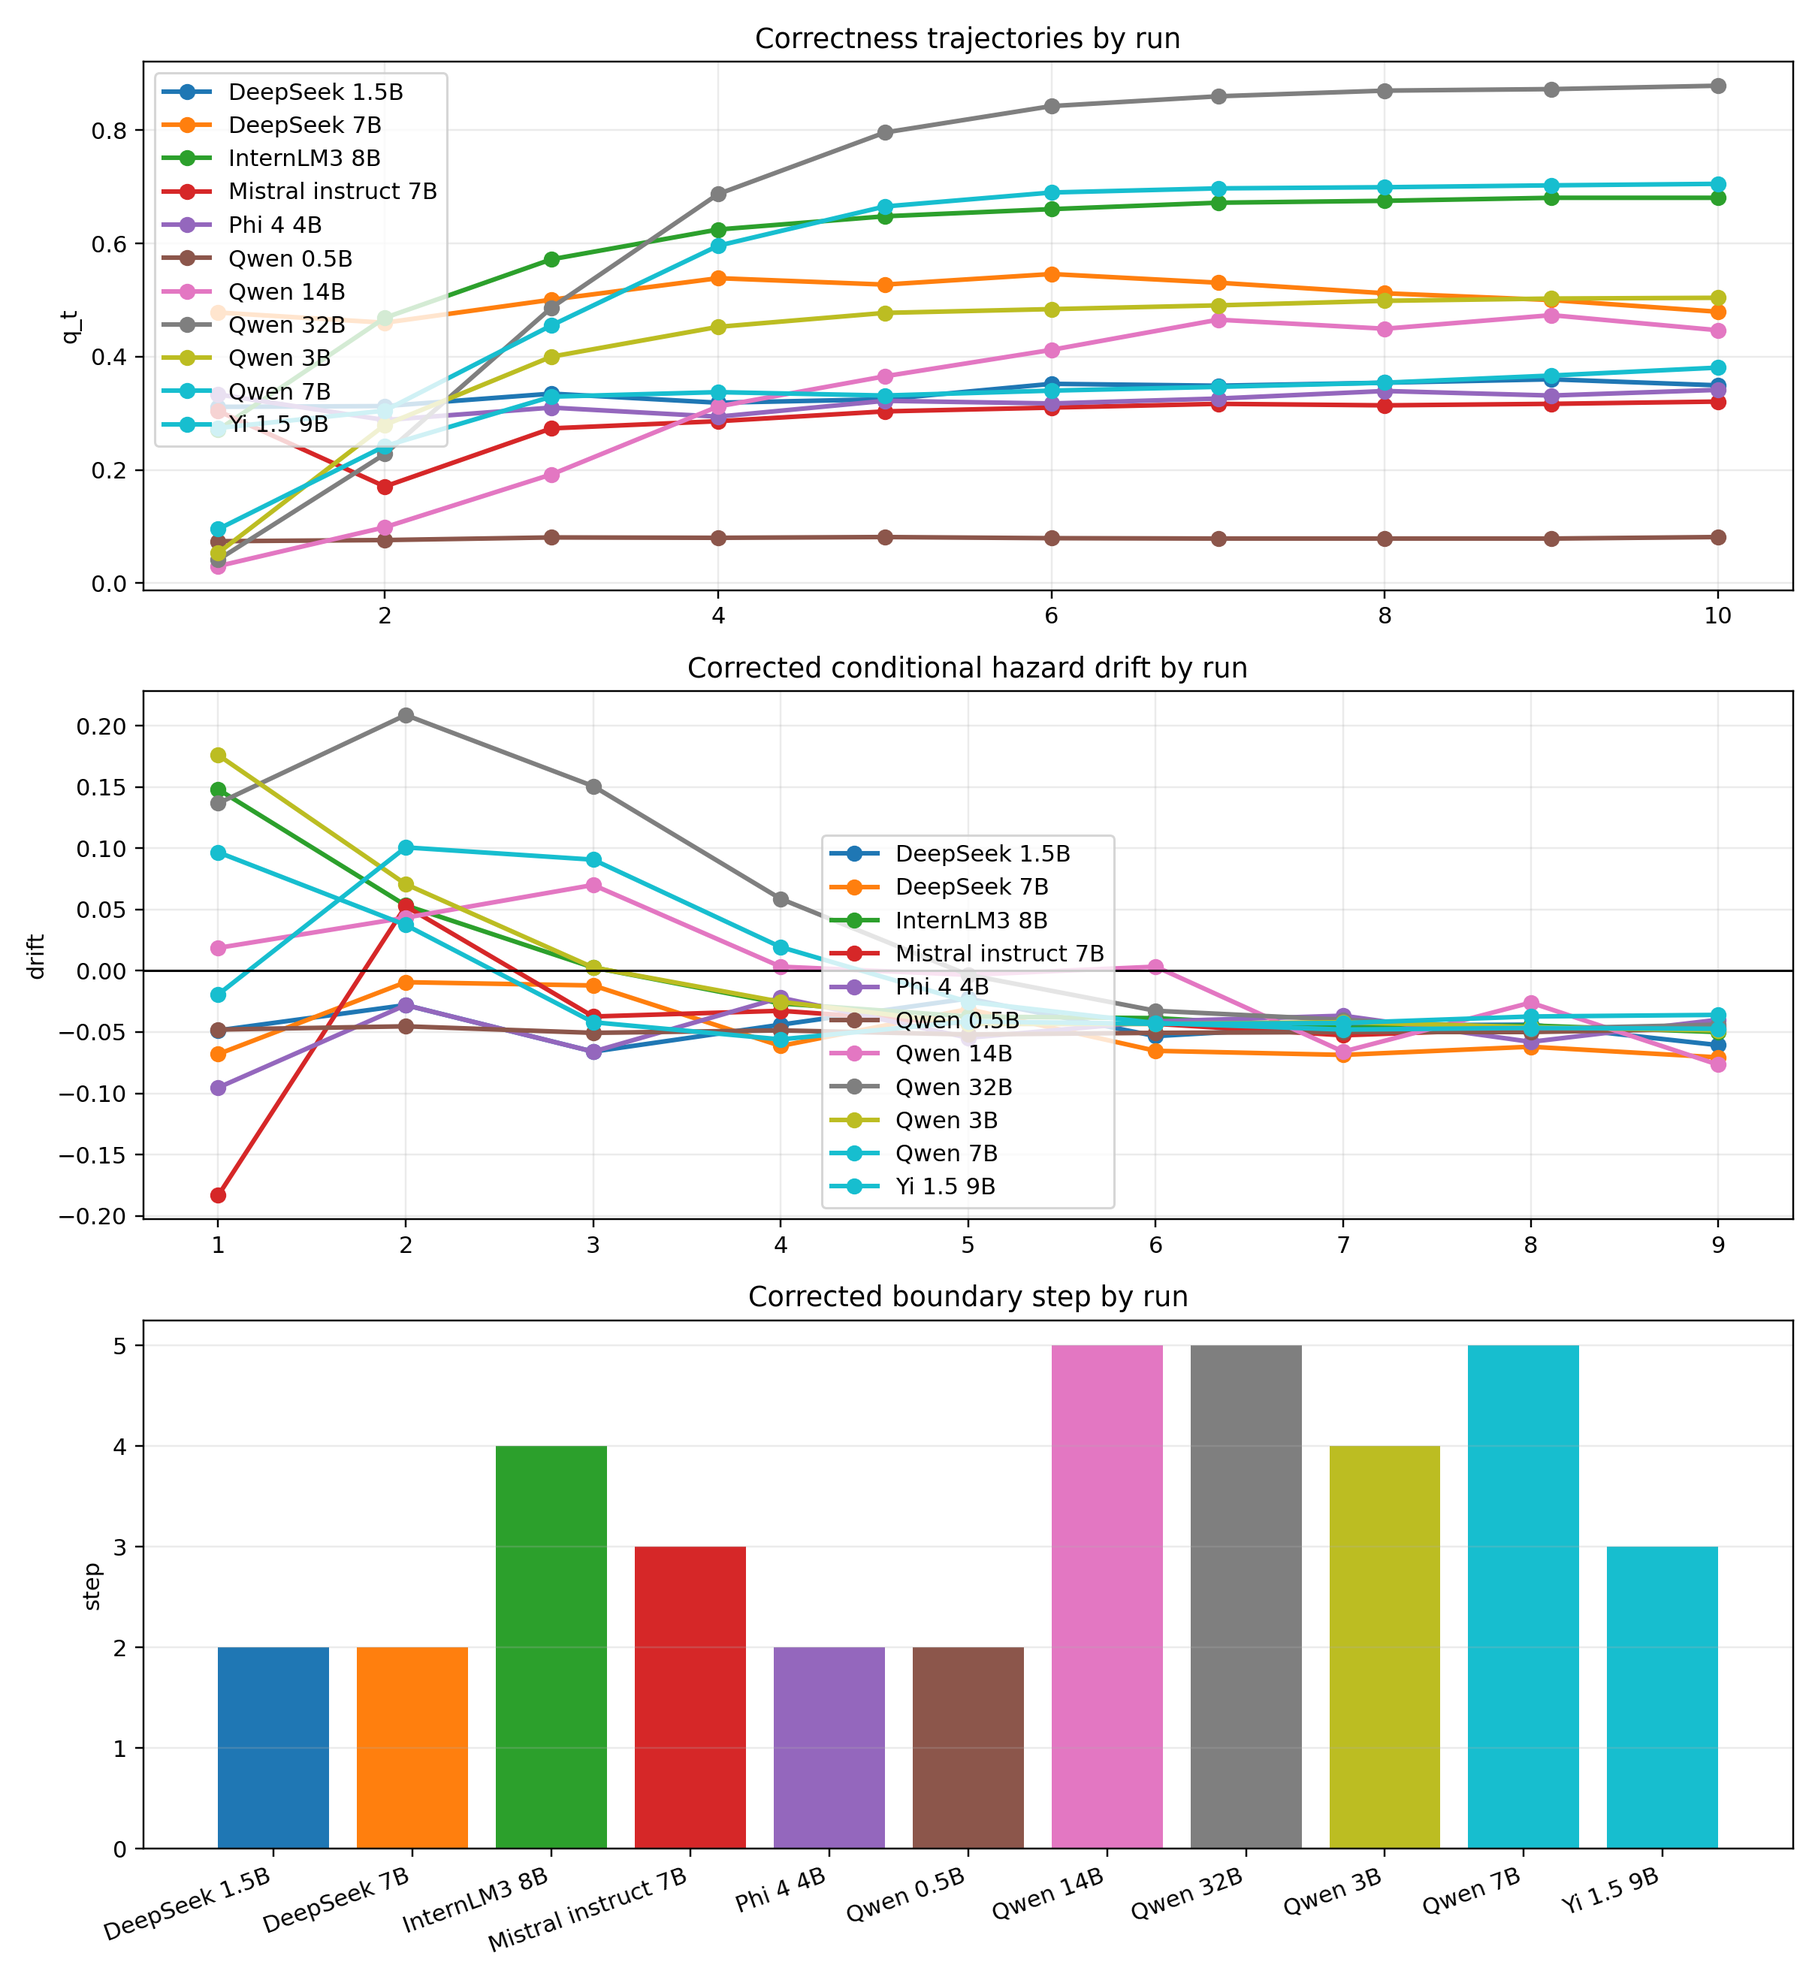
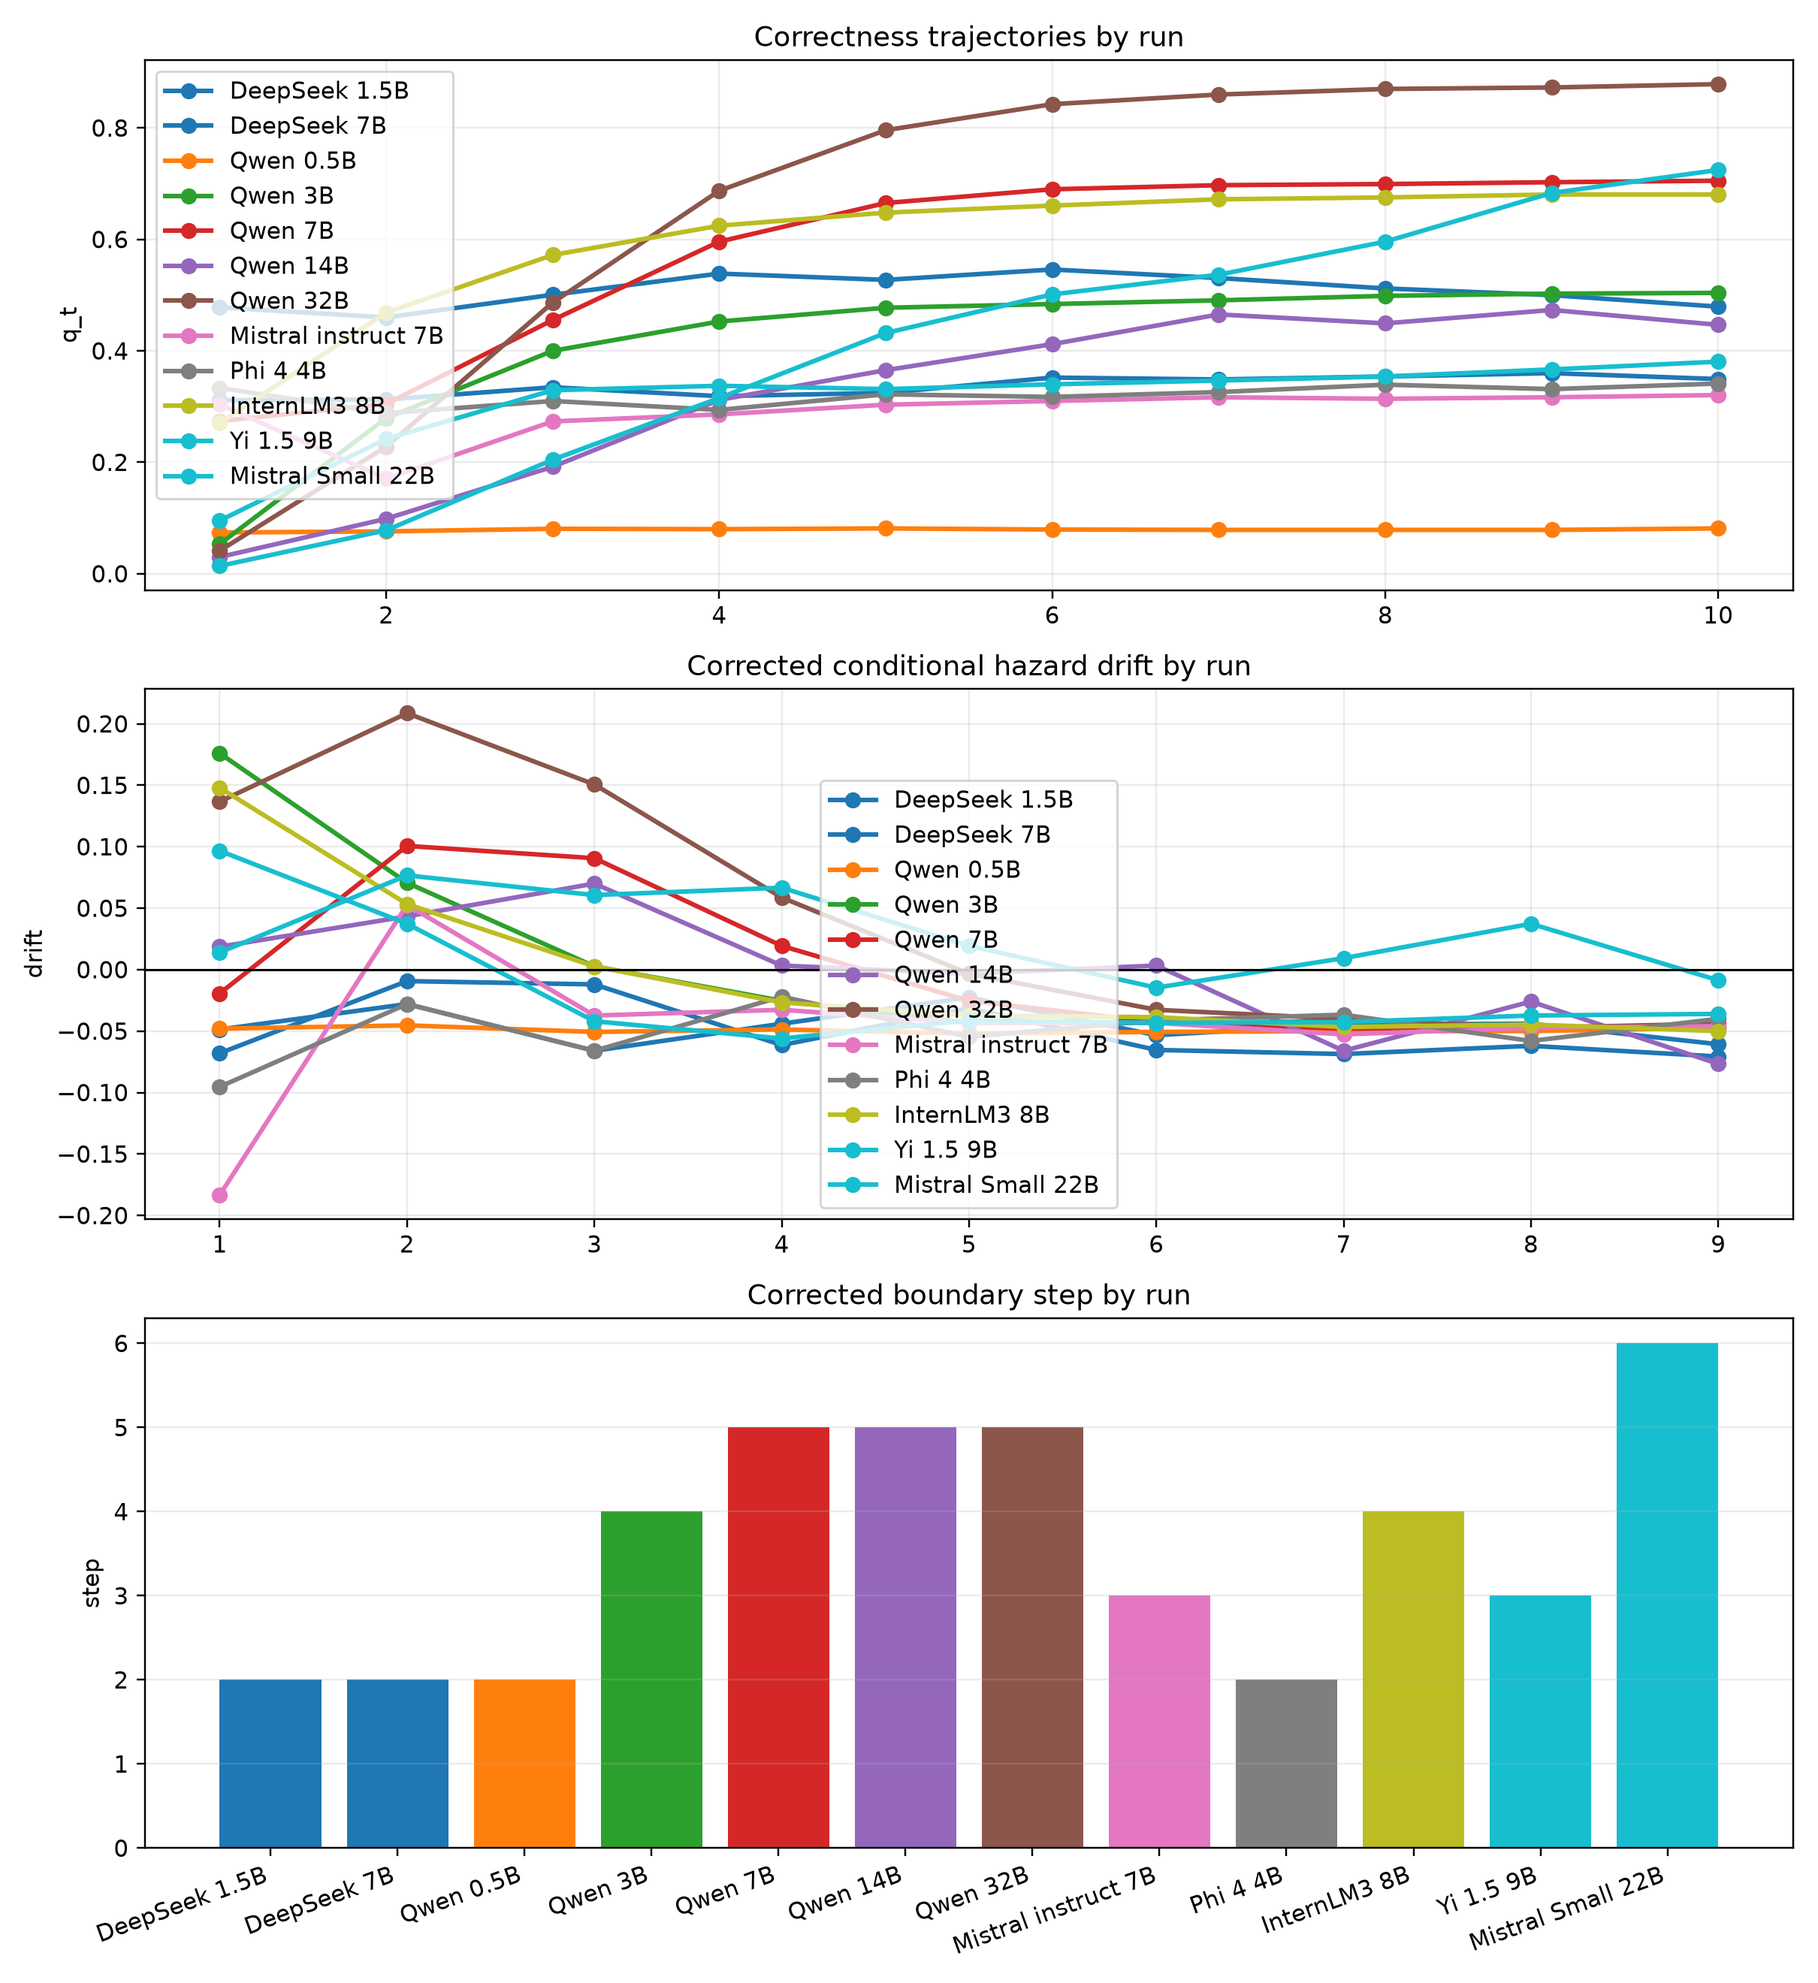
matrix aggregate: gsm8k

diff --git a/research/outputs/experiment_matrix/_aggregate/gsm8k/CROSS_FAMILY_REPORT.md b/research/outputs/experiment_matrix/_aggregate/gsm8k/CROSS_FAMILY_REPORT.md
@@ -1,39 +1,41 @@
 # Cross-Family Report
 
 ## Executive Summary
-A clearly late corrected boundary replicates in 3 capable run(s) across 1 family/families: Qwen 14B (step 5); Qwen 32B (step 5); Qwen 7B (step 5). An additional 4 run(s) across 4 family/families (InternLM3, Mistral instruct, Qwen2.5 instruct, Yi 1.5) add weaker late-boundary support: InternLM3 8B (step 4); Mistral instruct 7B (step 3); Qwen 3B (step 4); Yi 1.5 9B (step 3). The clearly-late evidence is concentrated in the Qwen2.5 instruct family, with weaker corroboration from 3 other family/families; cross-family support is materially stronger than a single-witness story, though a clearly-late non-Qwen2.5 instruct witness is still pending.
+A clearly late corrected boundary replicates in 4 capable run(s) across 2 family/families: Qwen 7B (step 5); Qwen 14B (step 5); Qwen 32B (step 5); Mistral Small 22B (step 6). An additional 4 run(s) across 4 family/families (InternLM3, Mistral instruct, Qwen2.5 instruct, Yi 1.5) add weaker late-boundary support: Qwen 3B (step 4); Mistral instruct 7B (step 3); InternLM3 8B (step 4); Yi 1.5 9B (step 3). Cross-family support for a late overthinking boundary is now strong.
 
-Task IDs align across all 11 runs under the shared GSM8K train split and shuffle seed 17 protocol.
+Task IDs align across all 12 runs under the shared GSM8K train split and shuffle seed 17 protocol.
 
 ## Run Summary
 | Run | Family | Params | Backend | Quant | Step-1 acc | Peak acc | Peak step | Corrected boundary | Repair | Corruption | Hazard gap | E-process gap | Never-stop gap | Probe Brier | Probe AUC | Assessment |
 | --- | --- | --- | --- | --- | --- | --- | --- | --- | --- | --- | --- | --- | --- | --- | --- | --- |
 | DeepSeek 1.5B | DeepSeek-R1 distill | 1.5B | transformers+torch(cuda) | none | 0.3113 | 0.3600 | 9 | 2 | 0.2231 | 0.4307 | 0.3870 | 0.4604 | 0.7338 | 0.2144 | 0.7017 | No late-boundary replication |
 | DeepSeek 7B | DeepSeek-R1 distill | 7B | transformers+torch(cuda) | none | 0.4780 | 0.5460 | 6 | 2 | 0.3636 | 0.3499 | 0.2815 | 0.6344 | 0.7771 | 0.1976 | 0.7535 | No late-boundary replication |
-| InternLM3 8B | InternLM3 | 8B | transformers+torch(cuda) | none | 0.2707 | 0.6807 | 9 | 4 | 0.1073 | 0.0243 | 0.1569 | 0.1725 | 0.4092 | 0.2170 | 0.6942 | Weakened late-boundary support |
-| Mistral instruct 7B | Mistral instruct | 7B | transformers+torch(cuda) | none | 0.3040 | 0.3207 | 10 | 3 | 0.0526 | 0.1339 | 0.1440 | 0.1550 | 0.4470 | 0.2316 | 0.6504 | Weakened late-boundary support |
-| Phi 4 4B | Phi 4 | 4B | transformers+torch(cuda) | none | 0.3333 | 0.3413 | 10 | 2 | 0.1589 | 0.3427 | 0.2935 | 0.3407 | 0.6594 | 0.2314 | 0.6521 | No late-boundary replication |
 | Qwen 0.5B | Qwen2.5 instruct | 0.5B | transformers+torch(cuda) | none | 0.0740 | 0.0813 | 5 | 2 | 0.0045 | 0.0404 | 0.0493 | 0.0121 | 0.4067 | 0.2413 | 0.5787 | No late-boundary replication |
-| Qwen 14B | Qwen2.5 instruct | 14B | transformers+torch(cuda) | none | 0.0300 | 0.4733 | 9 | 5 | 0.1427 | 0.2577 | 0.3535 | 0.3990 | 0.5676 | 0.1026 | 0.9122 | Late-boundary replication |
-| Qwen 32B | Qwen2.5 instruct | 32B | transformers+torch(cuda) | none | 0.0413 | 0.8787 | 10 | 5 | 0.2188 | 0.0611 | 0.1835 | 0.1889 | 0.3529 | 0.1500 | 0.8346 | Late-boundary replication |
 | Qwen 3B | Qwen2.5 instruct | 3B | transformers+torch(cuda) | none | 0.0533 | 0.5040 | 10 | 4 | 0.0907 | 0.0830 | 0.2380 | 0.2369 | 0.4609 | 0.2166 | 0.7087 | Weakened late-boundary support |
 | Qwen 7B | Qwen2.5 instruct | 7B | transformers+torch(cuda) | none | 0.2740 | 0.7053 | 10 | 5 | 0.1214 | 0.0634 | 0.1672 | 0.1978 | 0.3878 | 0.1960 | 0.7525 | Late-boundary replication |
+| Qwen 14B | Qwen2.5 instruct | 14B | transformers+torch(cuda) | none | 0.0300 | 0.4733 | 9 | 5 | 0.1427 | 0.2577 | 0.3535 | 0.3990 | 0.5676 | 0.1026 | 0.9122 | Late-boundary replication |
+| Qwen 32B | Qwen2.5 instruct | 32B | transformers+torch(cuda) | none | 0.0413 | 0.8787 | 10 | 5 | 0.2188 | 0.0611 | 0.1835 | 0.1889 | 0.3529 | 0.1500 | 0.8346 | Late-boundary replication |
+| Mistral instruct 7B | Mistral instruct | 7B | transformers+torch(cuda) | none | 0.3040 | 0.3207 | 10 | 3 | 0.0526 | 0.1339 | 0.1440 | 0.1550 | 0.4470 | 0.2316 | 0.6504 | Weakened late-boundary support |
+| Phi 4 4B | Phi 4 | 4B | transformers+torch(cuda) | none | 0.3333 | 0.3413 | 10 | 2 | 0.1589 | 0.3427 | 0.2935 | 0.3407 | 0.6594 | 0.2314 | 0.6521 | No late-boundary replication |
+| InternLM3 8B | InternLM3 | 8B | transformers+torch(cuda) | none | 0.2707 | 0.6807 | 9 | 4 | 0.1073 | 0.0243 | 0.1569 | 0.1725 | 0.4092 | 0.2170 | 0.6942 | Weakened late-boundary support |
 | Yi 1.5 9B | Yi 1.5 | 9B | transformers+torch(cuda) | none | 0.0953 | 0.3807 | 10 | 3 | 0.1001 | 0.1550 | 0.2077 | 0.2341 | 0.4968 | 0.2215 | 0.6923 | Weakened late-boundary support |
+| Mistral Small 22B | Mistral Small | 22B | transformers+torch(cuda) | none | 0.0140 | 0.7247 | 10 | 6 | 0.2025 | 0.2266 | 0.3638 | 0.3251 | 0.3338 | 0.1713 | 0.8246 | Late-boundary replication |
 
 ## Drift Audit
 | Run | Empirical boundary | Corrected boundary | Fitted boundary | Legacy pooled proxy | Mismatch |
 | --- | --- | --- | --- | --- | --- |
 | DeepSeek 1.5B | 2 | 2 | 2 | 2 | no |
 | DeepSeek 7B | 2 | 2 | 4 | 2 | no |
-| InternLM3 8B | 4 | 4 | 4 | 4 | no |
-| Mistral instruct 7B | 3 | 3 | 4 | 3 | no |
-| Phi 4 4B | 2 | 2 | 3 | 2 | no |
 | Qwen 0.5B | 2 | 2 | 2 | 2 | no |
-| Qwen 14B | 5 | 5 | 6 | 5 | no |
-| Qwen 32B | 5 | 5 | 5 | 5 | no |
 | Qwen 3B | 4 | 4 | 4 | 4 | no |
 | Qwen 7B | 5 | 5 | 5 | 5 | no |
+| Qwen 14B | 5 | 5 | 6 | 5 | no |
+| Qwen 32B | 5 | 5 | 5 | 5 | no |
+| Mistral instruct 7B | 3 | 3 | 4 | 3 | no |
+| Phi 4 4B | 2 | 2 | 3 | 2 | no |
+| InternLM3 8B | 4 | 4 | 4 | 4 | no |
 | Yi 1.5 9B | 3 | 3 | 4 | 3 | no |
+| Mistral Small 22B | 6 | 6 | 5 | 6 | no |
 
 ## Detector Rankings
 | Run | Detector | Rank | Mean oracle gap | False-late rate |
@@ -44,48 +46,52 @@ Task IDs align across all 11 runs under the shared GSM8K train split and shuffle
 | DeepSeek 7B | verifier_first_correct | 1 | -0.0093 | 0.091 |
 | DeepSeek 7B | oracle | 2 | 0.0000 | 0.000 |
 | DeepSeek 7B | hazard_drift | 3 | 0.2815 | 0.477 |
-| InternLM3 8B | oracle | 1 | 0.0000 | 0.000 |
-| InternLM3 8B | verifier_first_correct | 2 | 0.0834 | 0.273 |
-| InternLM3 8B | answer_stability | 3 | 0.1478 | 0.544 |
-| Mistral instruct 7B | oracle | 1 | 0.0000 | 0.000 |
-| Mistral instruct 7B | first_answer | 2 | 0.0137 | 0.000 |
-| Mistral instruct 7B | verifier_first_correct | 3 | 0.1423 | 0.558 |
-| Phi 4 4B | oracle | 1 | 0.0000 | 0.000 |
-| Phi 4 4B | verifier_first_correct | 2 | 0.0046 | 0.279 |
-| Phi 4 4B | first_answer | 3 | 0.2174 | 0.000 |
 | Qwen 0.5B | first_answer | 1 | -0.0359 | 0.000 |
 | Qwen 0.5B | oracle | 2 | 0.0000 | 0.000 |
 | Qwen 0.5B | e_process | 3 | 0.0121 | 0.000 |
-| Qwen 14B | oracle | 1 | 0.0000 | 0.000 |
-| Qwen 14B | verifier_first_correct | 2 | 0.0956 | 0.277 |
-| Qwen 14B | hazard_drift | 3 | 0.3535 | 0.438 |
-| Qwen 32B | oracle | 1 | 0.0000 | 0.000 |
-| Qwen 32B | verifier_first_correct | 2 | 0.0376 | 0.102 |
-| Qwen 32B | hazard_drift | 3 | 0.1835 | 0.783 |
 | Qwen 3B | oracle | 1 | 0.0000 | 0.000 |
 | Qwen 3B | verifier_first_correct | 2 | 0.1456 | 0.395 |
 | Qwen 3B | answer_stability | 3 | 0.2240 | 0.769 |
 | Qwen 7B | oracle | 1 | 0.0000 | 0.000 |
 | Qwen 7B | verifier_first_correct | 2 | 0.0508 | 0.239 |
 | Qwen 7B | answer_stability | 3 | 0.1543 | 0.892 |
+| Qwen 14B | oracle | 1 | 0.0000 | 0.000 |
+| Qwen 14B | verifier_first_correct | 2 | 0.0956 | 0.277 |
+| Qwen 14B | hazard_drift | 3 | 0.3535 | 0.438 |
+| Qwen 32B | oracle | 1 | 0.0000 | 0.000 |
+| Qwen 32B | verifier_first_correct | 2 | 0.0376 | 0.102 |
+| Qwen 32B | hazard_drift | 3 | 0.1835 | 0.783 |
+| Mistral instruct 7B | oracle | 1 | 0.0000 | 0.000 |
+| Mistral instruct 7B | first_answer | 2 | 0.0137 | 0.000 |
+| Mistral instruct 7B | verifier_first_correct | 3 | 0.1423 | 0.558 |
+| Phi 4 4B | oracle | 1 | 0.0000 | 0.000 |
+| Phi 4 4B | verifier_first_correct | 2 | 0.0046 | 0.279 |
+| Phi 4 4B | first_answer | 3 | 0.2174 | 0.000 |
+| InternLM3 8B | oracle | 1 | 0.0000 | 0.000 |
+| InternLM3 8B | verifier_first_correct | 2 | 0.0834 | 0.273 |
+| InternLM3 8B | answer_stability | 3 | 0.1478 | 0.544 |
 | Yi 1.5 9B | oracle | 1 | 0.0000 | 0.000 |
 | Yi 1.5 9B | verifier_first_correct | 2 | 0.1763 | 0.483 |
 | Yi 1.5 9B | answer_stability | 3 | 0.2045 | 0.753 |
+| Mistral Small 22B | oracle | 1 | 0.0000 | 0.000 |
+| Mistral Small 22B | verifier_first_correct | 2 | 0.0907 | 0.233 |
+| Mistral Small 22B | e_process | 3 | 0.3251 | 0.945 |
 
 ## Signal Comparison
 | Run | Strongest correctness signal | Strongest corruption signal |
 | --- | --- | --- |
 | DeepSeek 1.5B | answer revision flag (answer_changed, coeff=-0.720) | entropy volatility (entropy_std, coeff=0.363) |
 | DeepSeek 7B | answer revision flag (answer_changed, coeff=-0.925) | answer revision flag (answer_changed, coeff=0.240) |
-| InternLM3 8B | hidden-state L2 drift (hidden_l2_shift, coeff=0.395) | hidden-state L2 drift (hidden_l2_shift, coeff=1.309) |
-| Mistral instruct 7B | answer revision flag (answer_changed, coeff=-0.554) | hidden-state L2 drift (hidden_l2_shift, coeff=0.908) |
-| Phi 4 4B | answer revision flag (answer_changed, coeff=-0.565) | answer revision flag (answer_changed, coeff=0.355) |
 | Qwen 0.5B | token entropy (entropy_mean, coeff=-0.368) | verbosity-confidence proxy (verbose_confidence_proxy, coeff=0.625) |
-| Qwen 14B | hidden-state L2 drift (hidden_l2_shift, coeff=1.755) | answer revision flag (answer_changed, coeff=0.942) |
-| Qwen 32B | hidden-state L2 drift (hidden_l2_shift, coeff=1.152) | hidden-state L2 drift (hidden_l2_shift, coeff=1.537) |
 | Qwen 3B | self-reported confidence (confidence, coeff=0.717) | answer revision flag (answer_changed, coeff=0.443) |
 | Qwen 7B | self-reported confidence (confidence, coeff=0.740) | token entropy (entropy_mean, coeff=1.431) |
+| Qwen 14B | hidden-state L2 drift (hidden_l2_shift, coeff=1.755) | answer revision flag (answer_changed, coeff=0.942) |
+| Qwen 32B | hidden-state L2 drift (hidden_l2_shift, coeff=1.152) | hidden-state L2 drift (hidden_l2_shift, coeff=1.537) |
+| Mistral instruct 7B | answer revision flag (answer_changed, coeff=-0.554) | hidden-state L2 drift (hidden_l2_shift, coeff=0.908) |
+| Phi 4 4B | answer revision flag (answer_changed, coeff=-0.565) | answer revision flag (answer_changed, coeff=0.355) |
+| InternLM3 8B | hidden-state L2 drift (hidden_l2_shift, coeff=0.395) | hidden-state L2 drift (hidden_l2_shift, coeff=1.309) |
 | Yi 1.5 9B | self-reported confidence (confidence, coeff=0.994) | token entropy (entropy_mean, coeff=0.718) |
+| Mistral Small 22B | hidden-state L2 drift (hidden_l2_shift, coeff=1.736) | token entropy (entropy_mean, coeff=0.480) |
 
 ## Figures
 ![Cross-family boundary comparison](outputs/cross_family/cross_family_boundary_comparison.png)

diff --git a/research/outputs/experiment_matrix/_aggregate/gsm8k/CROSS_FAMILY_OPEN_QUESTIONS.md b/research/outputs/experiment_matrix/_aggregate/gsm8k/CROSS_FAMILY_OPEN_QUESTIONS.md
@@ -2,9 +2,9 @@
 
 | Question | Status | Joint answer |
 | --- | --- | --- |
-| Is the boundary robust across model families? | partially answered | A clearly late boundary replicates within one capable family (Qwen2.5 instruct, 3 run(s)), with weaker support from 3 other family/families. Cross-family robustness is materially stronger than a single-witness story, but not fully settled until a clearly-late non-Qwen2.5 instruct witness appears. |
+| Is the boundary robust across model families? | answered | A materially late boundary is present in at least two capable families under the matched GSM8K protocol. |
 | Does boundary location appear capability-linked? | answered | The weak Qwen control stays early while the higher-capability Qwen run moves later, which supports a capability-linked boundary location. |
 | Does detector ranking change with capability? | answered | Detector ranking changes across runs, so ranking is not invariant across capability regimes. |
 | Is answer revision or entropy more cross-family stable? | partially answered | Signal leadership is not stable yet: DeepSeek emphasizes answer revision, while Qwen-family evidence includes entropy or verbosity proxies. |
-| Do the data support a family effect or mostly a capability effect? | partially answered | The completed Mistral run weakens the case for a single-family artifact, but its earlier step-3 boundary still leaves family-versus-capability attribution incomplete and below a strong cross-family late-boundary claim. |
+| Do the data support a family effect or mostly a capability effect? | partially answered | A late boundary in multiple capable families weakens the case for a DeepSeek-only effect, but one benchmark and one capable run per family still leave family-versus-capability attribution incomplete. |
 | What cannot yet be claimed without the stronger second-family run? | answered | Even with the completed Mistral follow-up, the repo still cannot claim benchmark-invariant behavior, clean family-versus-capability separation, or universal observable stability without additional families or benchmarks. |
